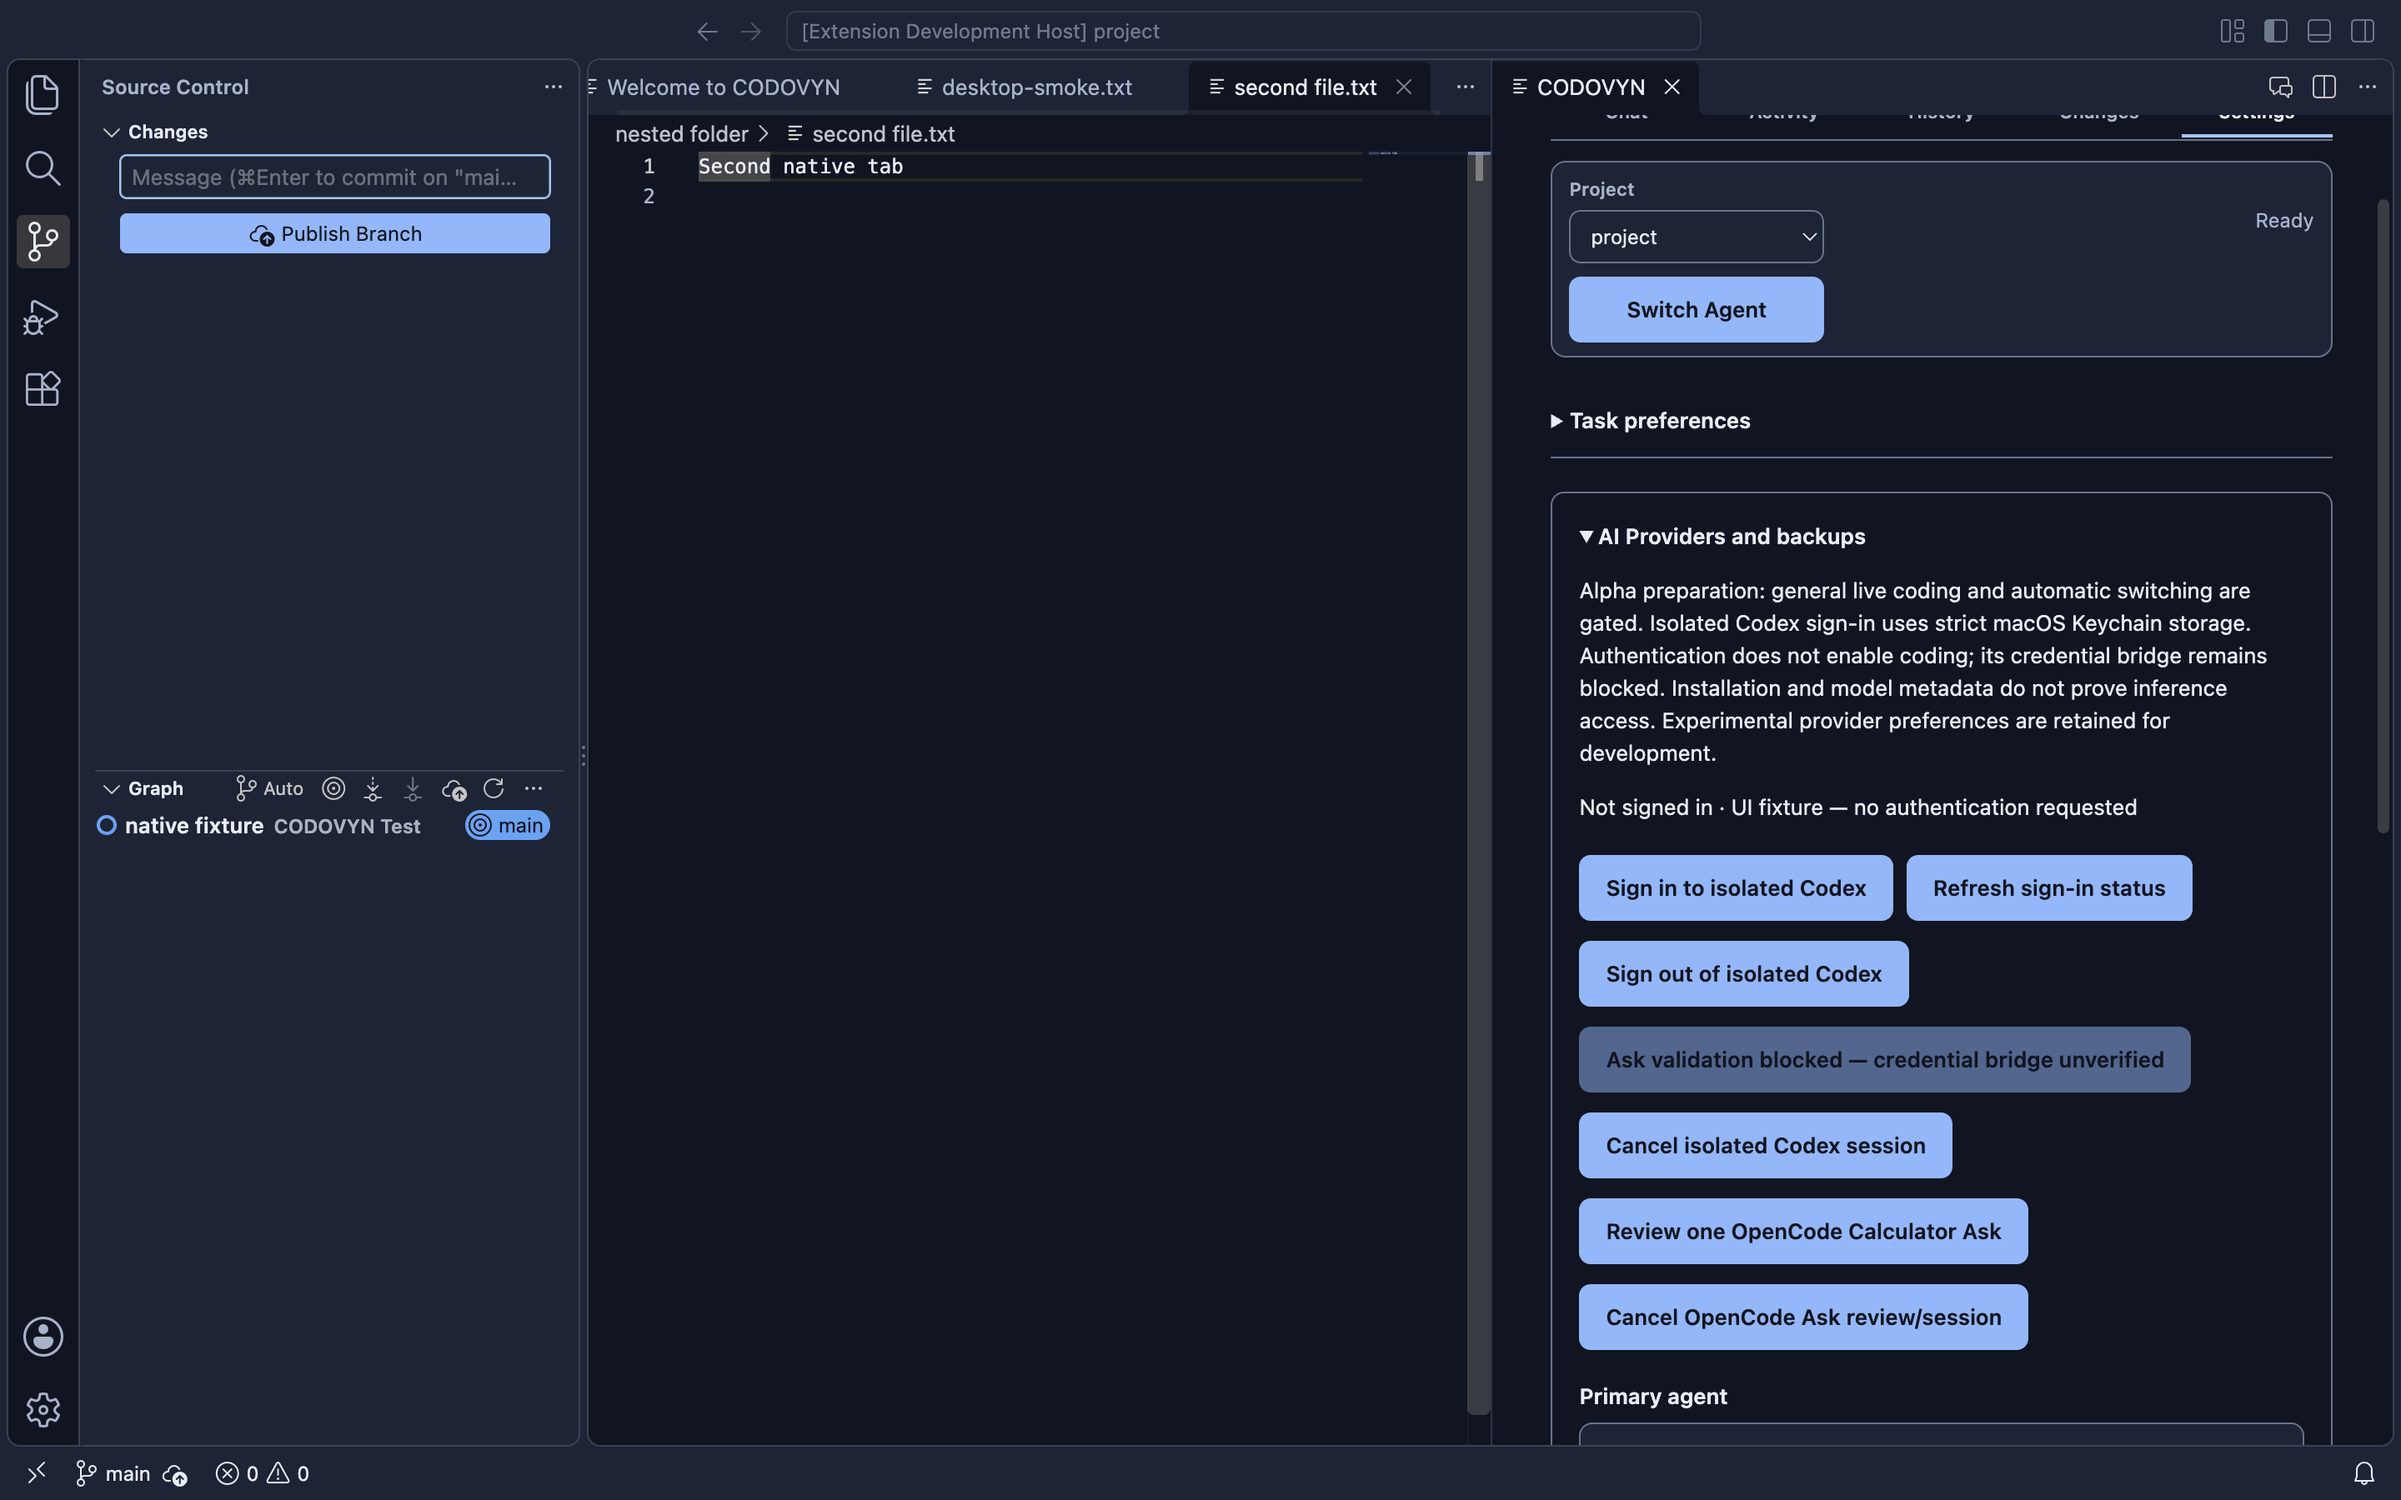
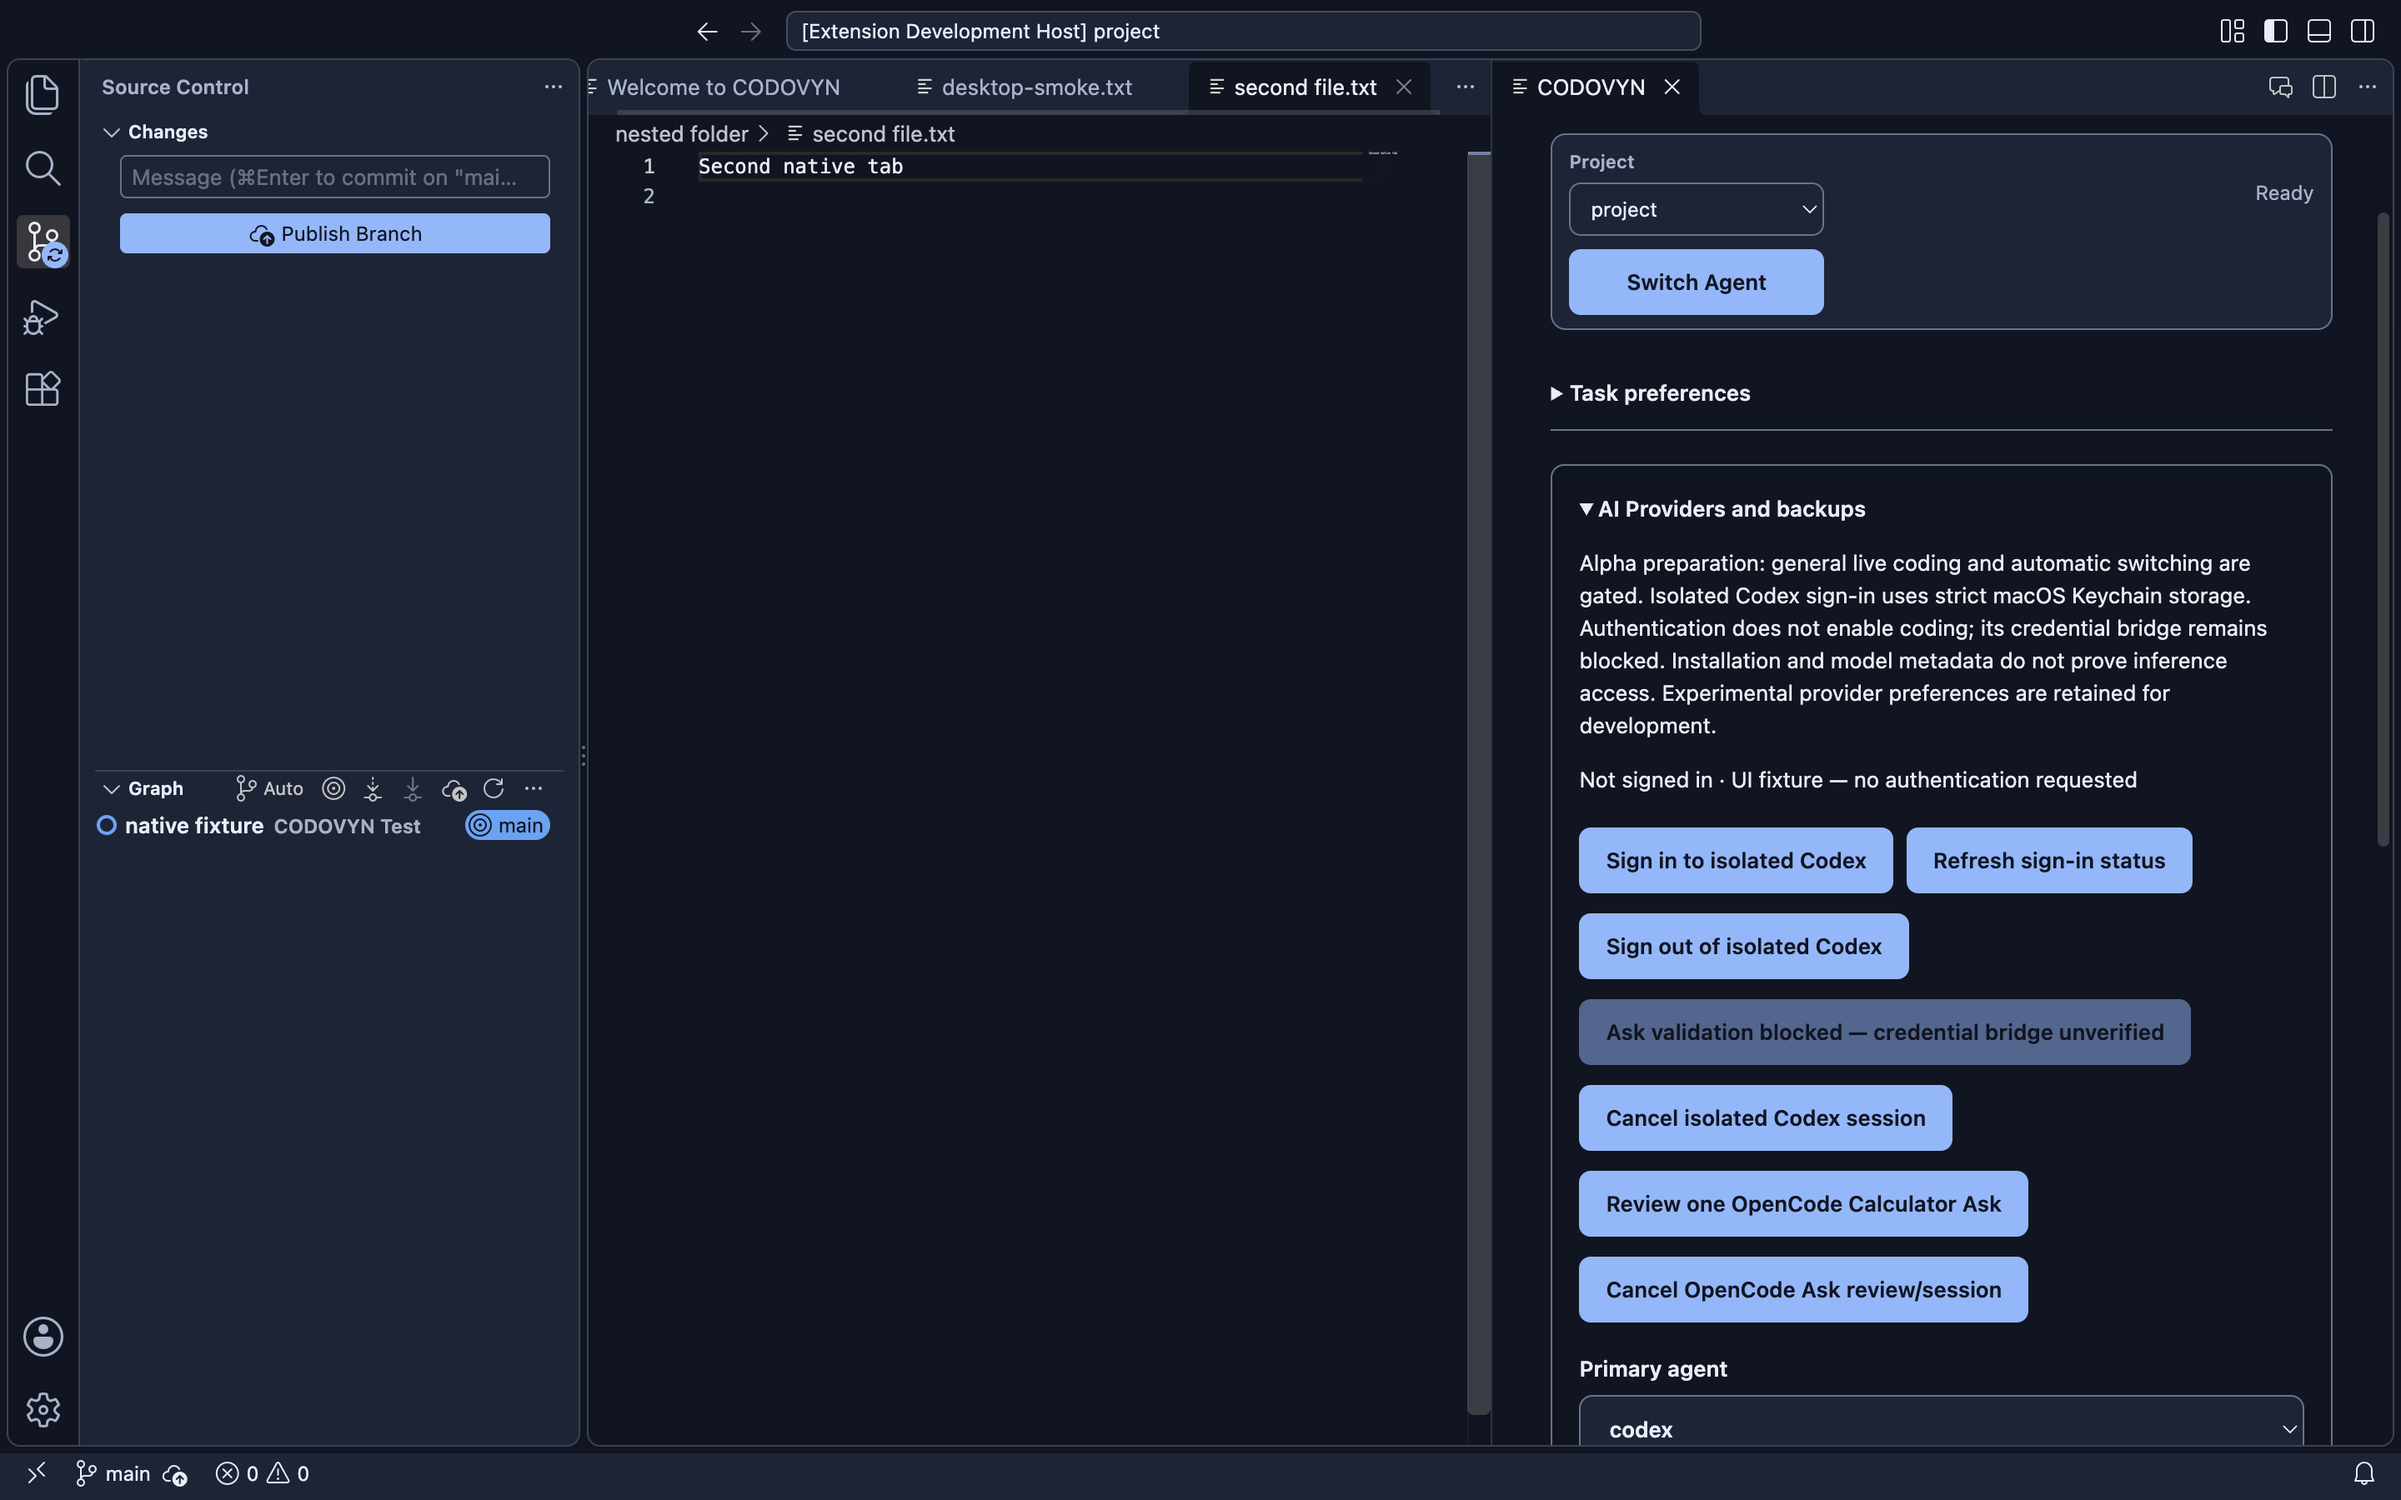
docs(alpha): record final guarded OpenCode installer and owner setup gate

diff --git a/docs/development/first-provider-transport-validation.md b/docs/development/first-provider-transport-validation.md
@@ -1,6 +1,6 @@
 # Selected alpha provider transport — protected OpenCode Ask
 
-**PREPARED — NOT LIVE VERIFIED.** Starting main: `39cca12c5f3263225b3a72b1cd6a82981fdc579a`. Tested implementation and clean development installer: `3953f079befbca785374ed0aa2ee3d1230e04b53`. A documentation/evidence commit follows; final remote SHA is verified after its push.
+**PREPARED — NOT LIVE VERIFIED.** Starting main: `39cca12c5f3263225b3a72b1cd6a82981fdc579a`. Tested implementation and clean development installer: `e83a712102a035c2fa659e63cb5c3f75dc55c814`. Initial transport commit: `3953f079befbca785374ed0aa2ee3d1230e04b53`; canonical-context hardening and first qualification commit: `e83a712102a035c2fa659e63cb5c3f75dc55c814`. A final evidence commit follows; final remote SHA is verified after its push.
 
 ## Decision
 
@@ -26,7 +26,7 @@ No new daemon, scheduler, journal, native helper, dependency or global credentia
 
 ### Credential and tool boundary
 
-`openCodeAccountContext` uses strictly canonical path (including rejection of symlinked context roots), filesystem identity, owner/mode/link checks and credential-file size/timestamps. **It never reads credential contents.** Ordinary runtime directory changes do not invalidate it; credential replacement or modification does. This binds a particular isolated credential-store state, not a proven account name, entitlement or valid token. Provider refresh may invalidate review; that fails closed without an automatic new approval or request. Authenticated startup/refresh with the owner's actual account remains untested.
+`openCodeAccountContext` uses strictly canonical path (including rejection of symlinked context roots), filesystem identity, owner/mode/link checks and credential-file size/timestamps. **It never reads credential contents.** Ordinary runtime directory changes do not invalidate it; credential replacement or modification does. This binds a particular isolated credential-store state, not a proven account name, entitlement or valid token. Provider refresh may invalidate review; that fails closed without an automatic new approval or request. These checks are not a race-proof account-identity assertion or a lock on owner-operated credential changes. Authenticated startup/refresh with the owner's actual account remains untested.
 
 The official OpenCode SDK continues to manage its own credentials inside the existing owner-only per-project context. This is not Codex Keychain delegation or a new Keychain-backed OpenCode store. No key reaches renderer, source excerpt, task journal or file broker. The underlying provider/account must be configured by the owner using **OpenCode Setup**, and its costs must be reviewed separately. The current owner context has no credential-file metadata; real authentication is **BLOCKED — OWNER SETUP REQUIRED**.
 
@@ -51,7 +51,7 @@ This first campaign never activates MCP file execution. Metadata `initialize`/`t
 - Real pinned ACP Ask/Agent metadata initialization, MCP catalogue, repository boundary and process ownership probes passed without `session/prompt`. Existing OS denial tests and deterministic Java accept/reject workflows passed; their generated responses are fixtures.
 - Source dependencies, syntax, extension host, Keychain/auth-worker, Codex controls, build, notice inventory and packaging passed sequentially.
 - **18 copied-DMG steps passed**: read-only image/mounted-copy integrity, deep/strict pre/post signatures, native host/Java/editor/Git/search/terminal, Chat, routing, restoration, provider/security probes, the new empty-auth owner-worker preflight and deterministic Java workflow.
[2 lines of base64/hex data omitted]
 
 [Machine-readable evidence](../assets/opencode-ask/qualification.json), [empty-auth worker result](../assets/opencode-ask/empty-auth-preflight.json), [actual copied Settings screenshot](../assets/opencode-ask/settings.png). The screenshot uses clearly labelled fixture authentication messages, not a genuine account or live AI response. Automated desktop checks are not a human usability test.
 

diff --git a/docs/release/PUBLIC-ALPHA-READINESS.md b/docs/release/PUBLIC-ALPHA-READINESS.md
@@ -107,7 +107,7 @@ Clean development DMG source: `d650b8dab1bc7d48c3334cab56d28979d8e6a02b`; SHA-25
 
 The [three-path decision and qualification](../development/first-provider-transport-validation.md) selects the existing pinned **OpenCode 2.1.2 ACP adapter**, retaining its current OS/MCP boundary. Codex's Keychain/auth-only process remains untouched and blocked for coding. A separate API SDK/credential integration was deferred. No extra filesystem, Keychain, shell, Git or tool grant was introduced.
 
-Implementation `3953f079befbca785374ed0aa2ee3d1230e04b53` adds a private single-use ACP Ask transport, existing SQLite reservation/accounting, exact model/prompt native review, cancellation/uncertain-outcome handling and Settings actions. Normal composer/provider coding, Agent and ContextFlow remain gated. Only the unchanged public Calculator can use the new native validation entry, after fresh explicit approval. Earlier Codex consent never authorizes this provider.
+Implementation `e83a712102a035c2fa659e63cb5c3f75dc55c814` adds a private single-use ACP Ask transport, existing SQLite reservation/accounting, exact model/prompt native review, cancellation/uncertain-outcome handling and Settings actions. Normal composer/provider coding, Agent and ContextFlow remain gated. Only the unchanged public Calculator can use the new native validation entry, after fresh explicit approval. Earlier Codex consent never authorizes this provider.
 
 **411 tests passed, 0 failed/skipped; all 18 copied-DMG steps passed. Actual inference submissions: 0.** The real owner-worker empty-context preflight certifies cleanup and creates no task/consent/request. Source and copied actual ACP/MCP initialization passed without a prompt. Native Settings includes **Review one OpenCode Calculator Ask** and cancel controls; the capture uses labelled UI fixtures, not live AI.
 
@@ -115,7 +115,7 @@ Implementation `3953f079befbca785374ed0aa2ee3d1230e04b53` adds a private single-
 
[1 lines of base64/hex data omitted]
 
[2 lines of base64/hex data omitted]
 
 Independent runtime investigation found official **VSCodium 1.143.17183**, published October 26. Bounded archive downloads timed out; its embedded fix coverage remains unqualified. Preserve the pinned editor until a complete checksum-verified candidate passes native qualification. Do not assume that no newer upstream build exists, or that Node 24.22.0 establishes October 21 fix coverage. [Captured upstream metadata](../assets/opencode-ask/editor-security.json). Signing/notarization, hosted CI billing, real Ask/Agent, issue #16, dependency/rights and clean-machine/human QA gates remain. **ALPHA BLOCKED — CRITICAL GATES REMAIN.**
 
